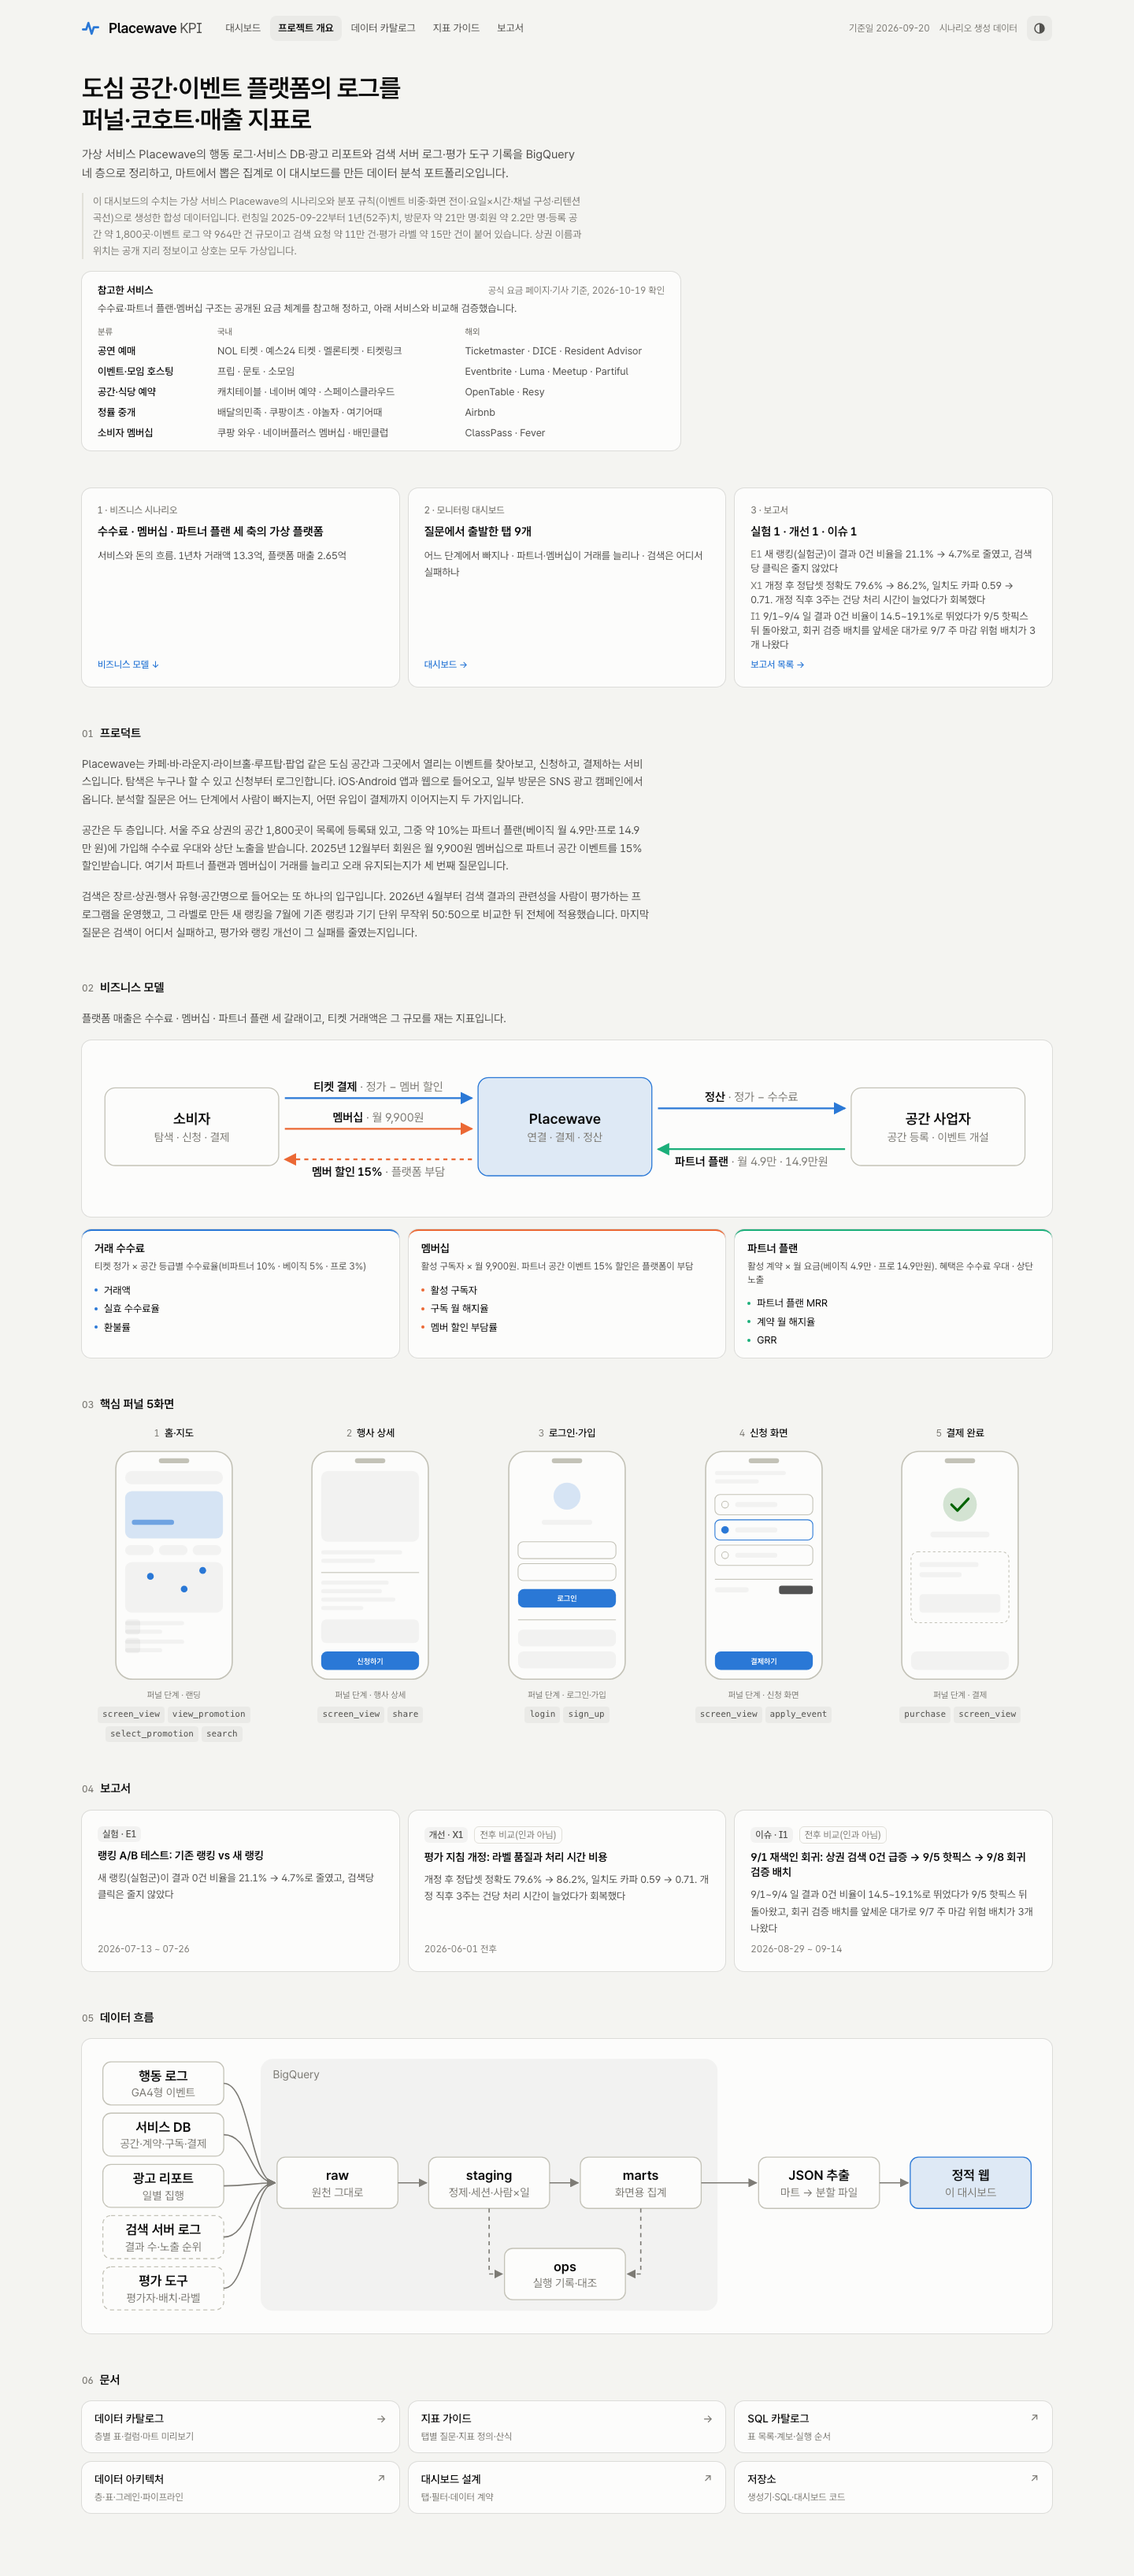
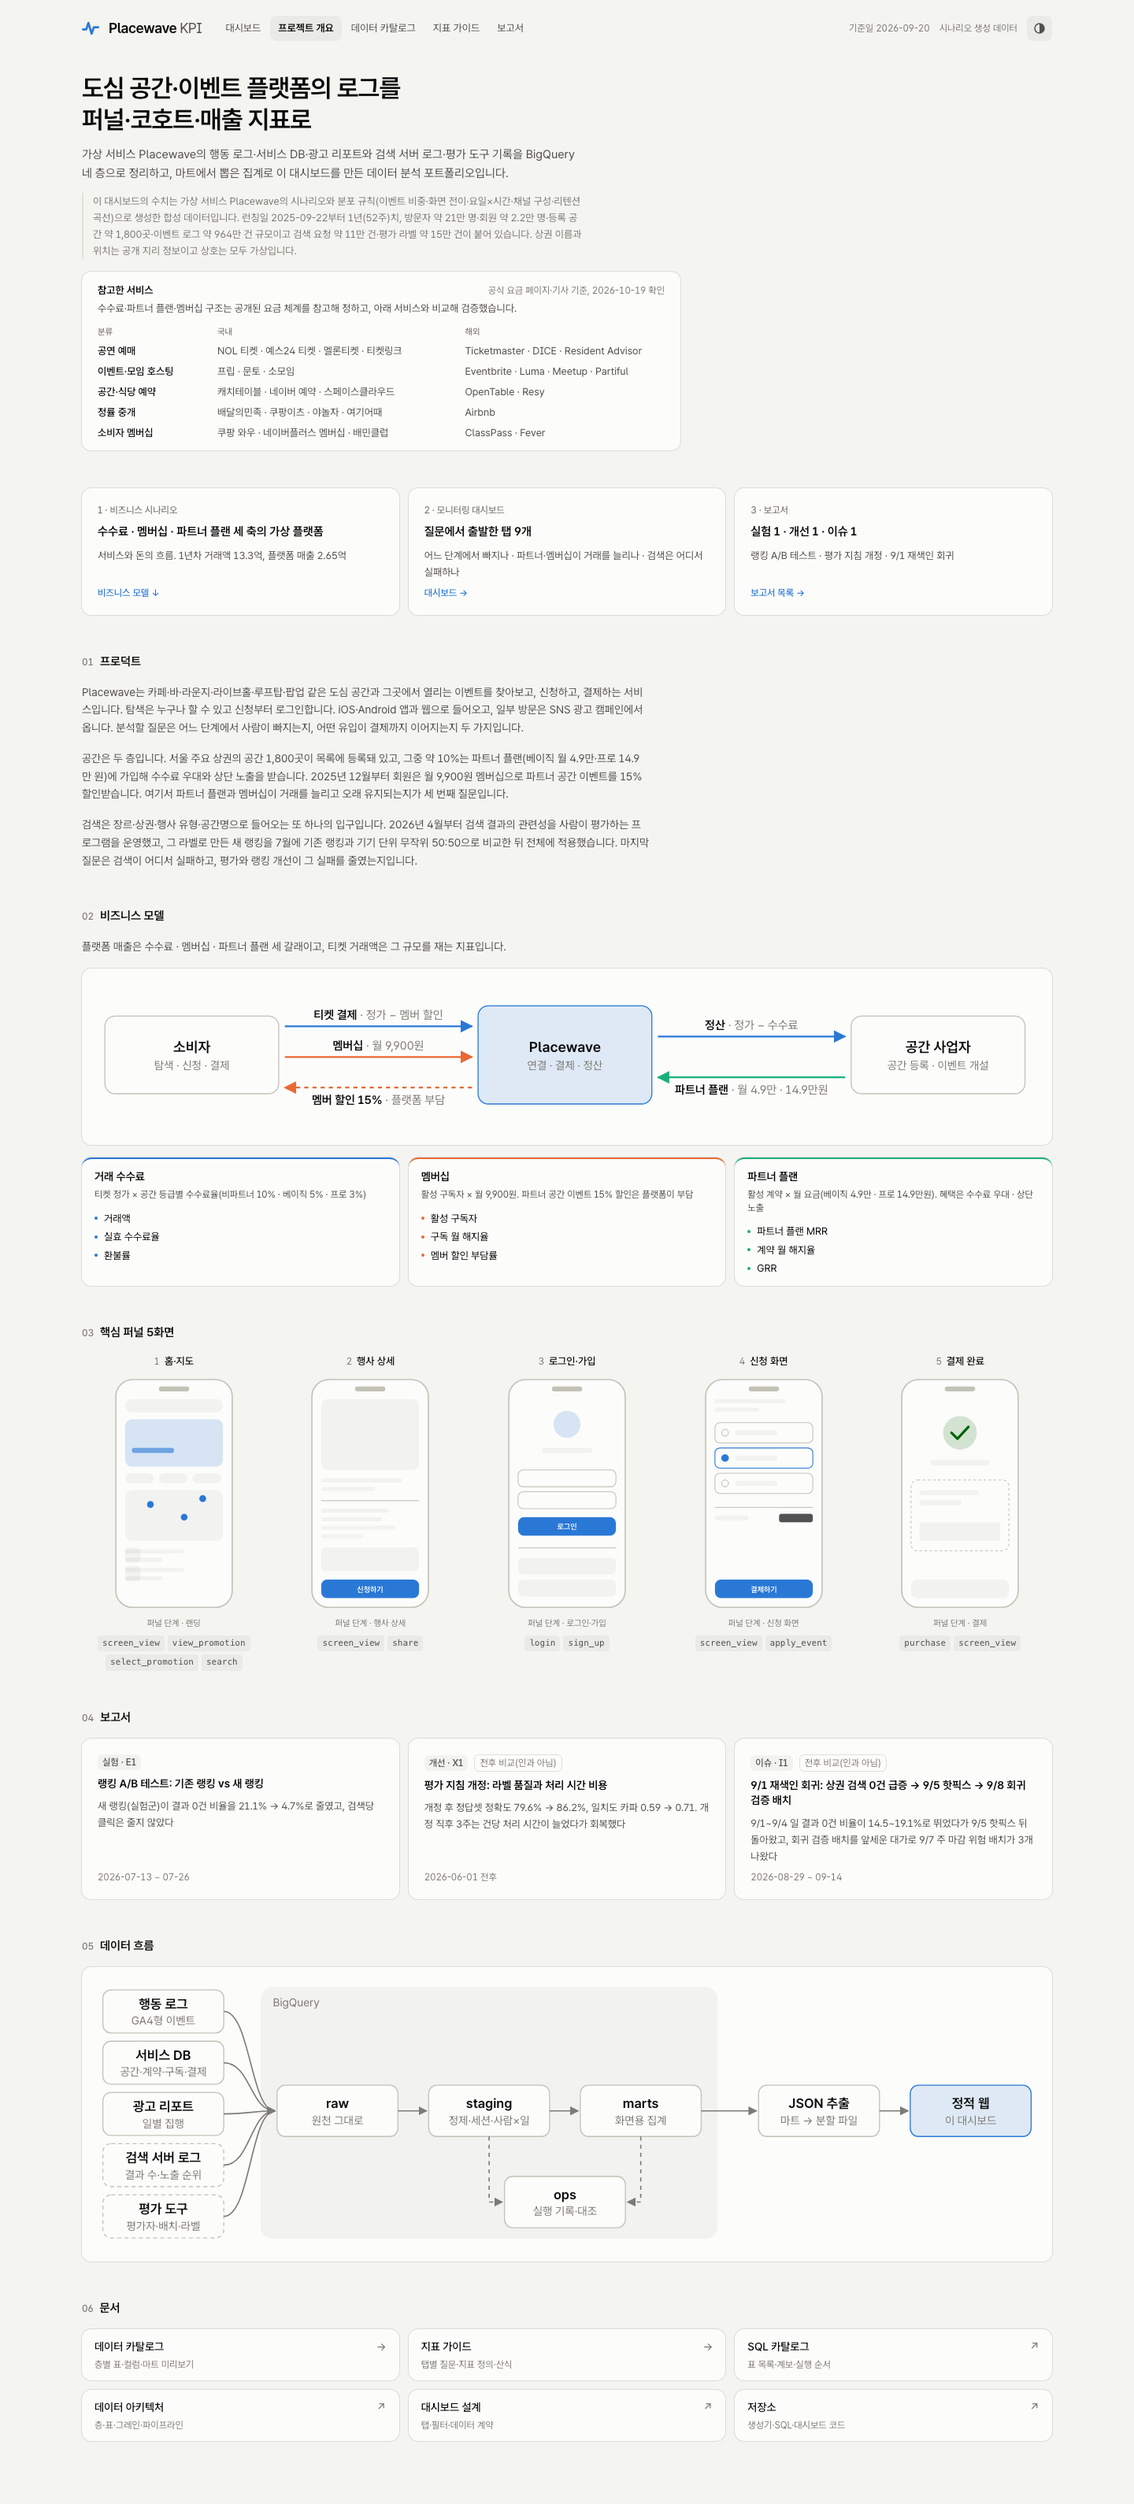
fix: 개요 첫 화면 보고서 카드를 한 줄 제목으로(1·2번 카드와 같은 무게), README 개요 캡처 재촬영

diff --git a/dashboard/src/About.tsx b/dashboard/src/About.tsx
@@ -630,13 +630,9 @@ export default function About({
         <a href={hrefs.reports} onClick={open('reports')} className={tile}>
           <span className="text-xs font-medium text-muted">3 · 보고서</span>
           <span className="text-[15px] font-semibold text-ink">실험 1 · 개선 1 · 이슈 1</span>
-          <ul className="flex flex-col gap-1 text-[13px] leading-snug text-ink2">
-            {REPORTS.map((r) => (
-              <li key={r.id}>
-                <span className="text-muted">{r.code}</span> {r.conclusion}
-              </li>
-            ))}
-          </ul>
+          <span className="text-[13px] leading-relaxed text-ink2">
+            {REPORTS.map((r) => r.title.split(': ')[0]).join(' · ')}
+          </span>
           <span className="mt-auto text-xs font-medium text-accent">보고서 목록 →</span>
         </a>
       </nav>

diff --git a/docs/dashboard.md b/docs/dashboard.md
@@ -226,7 +226,7 @@
 
 **프로젝트 개요** — 대시보드 안에 설명 문장을 넣지 않기 위한 자리.
 
-1. 한 문장 요약(도심 공간·이벤트 플랫폼) + 데이터 설명 절(`#data-note`, 저톤 문단): 시나리오·분포 규칙으로 생성한 합성 데이터, 방문자 210,000명·회원 약 22,000명·52주·이벤트 약 960만 건 규모. 이어서 참고한 서비스 카드(수수료·파트너 플랜·멤버십 구조를 비교한 공개 서비스, 분류 · 국내 · 해외 3열, 폭 640px 미만은 분류별로 쌓음, 2026-10-19 확인). 그 아래 세 묶음 카드 — 비즈니스 시나리오(→ 02절) · 모니터링 대시보드(→ 대시보드) · 보고서(건마다 한 줄 결론 → 보고서 목록)
+1. 한 문장 요약(도심 공간·이벤트 플랫폼) + 데이터 설명 절(`#data-note`, 저톤 문단): 시나리오·분포 규칙으로 생성한 합성 데이터, 방문자 210,000명·회원 약 22,000명·52주·이벤트 약 960만 건 규모. 이어서 참고한 서비스 카드(수수료·파트너 플랜·멤버십 구조를 비교한 공개 서비스, 분류 · 국내 · 해외 3열, 폭 640px 미만은 분류별로 쌓음, 2026-10-19 확인). 그 아래 세 묶음 카드 — 비즈니스 시나리오(→ 02절) · 모니터링 대시보드(→ 대시보드) · 보고서(세 건의 짧은 제목 → 보고서 목록. 건마다 한 줄 결론은 아래 04 보고서 절)
 2. 프로덕트: 도심 공간(카페·바·라운지·라이브홀·루프탑·팝업)과 이벤트 탐색 → 신청 → 결제, 회원·비회원, 앱·웹, 광고 유입. 두 번째 단락은 공간 두 층(등록 1,800곳, 파트너 플랜 베이직 4.9만·프로 14.9만 원 약 10%)과 멤버십(월 9,900원, 파트너 공간 이벤트 15% 할인)
 3. 비즈니스 모델: 한 줄(플랫폼 매출 세 갈래, 거래액은 규모 지표) → 인라인 SVG 돈의 흐름(소비자 → 티켓 결제·멤버십 → Placewave → 정산 → 공간 사업자, 공간 사업자 → 파트너 플랜, 멤버 할인은 점선. 색 = 수익 축, 개요 매출 구성 카드와 같은 색). 폭 768px 미만은 세로 도식 → 축 카드 3장(거래 수수료·멤버십·파트너 플랜: 산식 한 줄 + 핵심 지표 3개)
 4. 핵심 퍼널 5화면 와이어프레임(홈·지도 → 행사 상세 → 로그인·가입 → 신청 화면 → 결제 완료)과 화면별 이벤트 이름
